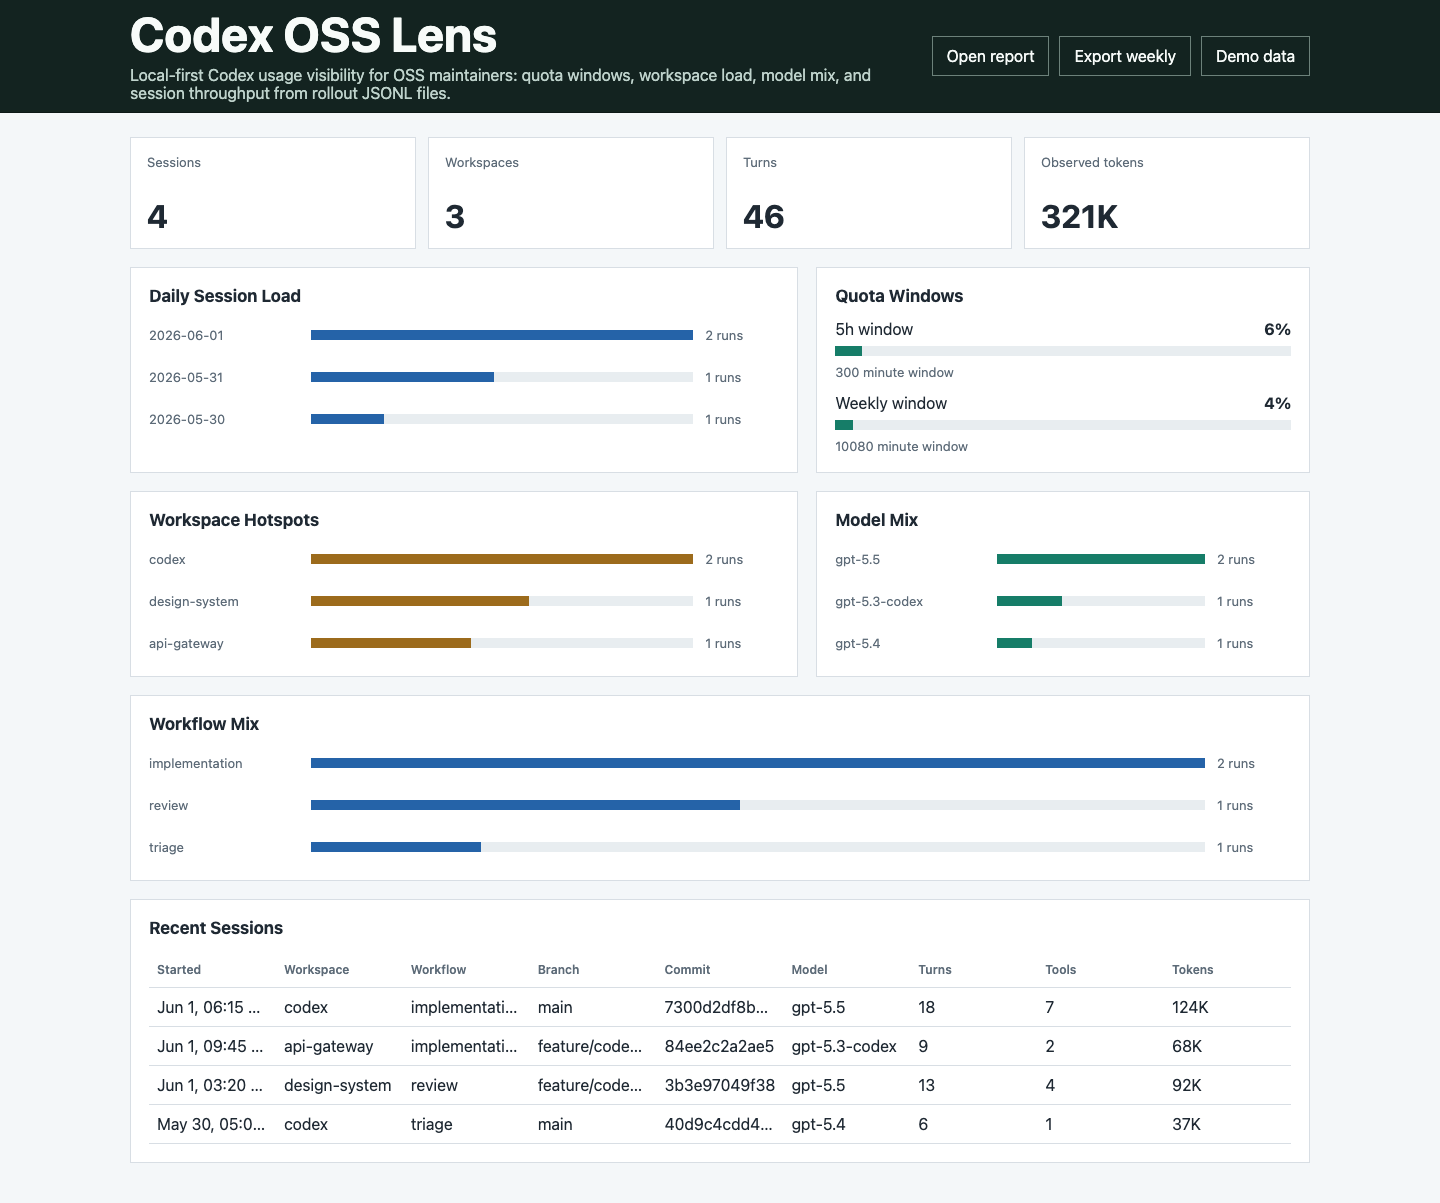
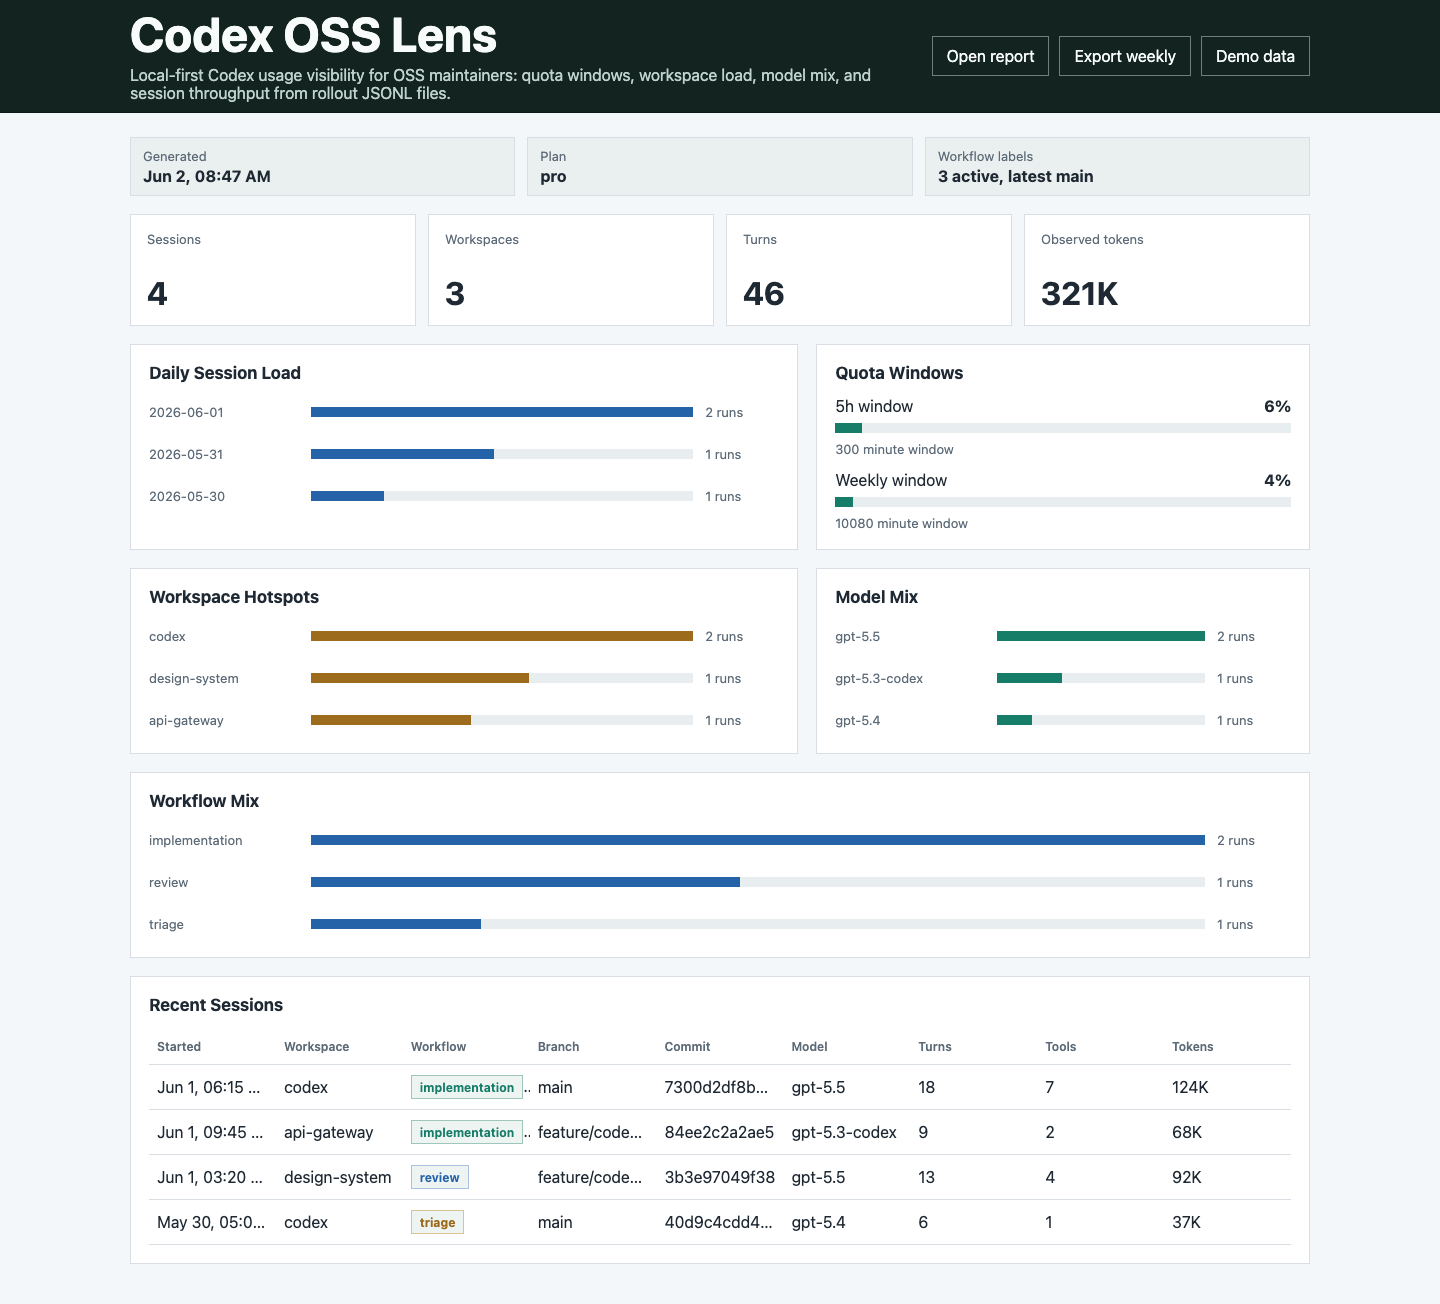
Polish project presentation before application
The project is being prepared for a later OSS support application, so this pass improves the public-facing README, contribution/security docs, schema documentation, and dashboard visual finish without changing the core data model.

Constraint: Keep the tool dependency-free and local-first

Rejected: Add marketing-heavy landing page | the dashboard should remain the first usable screen

Confidence: high

Scope-risk: narrow

Directive: Keep presentation polish grounded in real local/report behavior, not claims the tool does not yet support

Tested: npm test; Playwright desktop/mobile render and weekly export download

Not-tested: GitHub Actions because workflow scope is still unavailable

diff --git a/public/index.html b/public/index.html
@@ -101,6 +101,23 @@
         padding: 24px 0 40px;
       }
 
+      .meta-row {
+        display: grid;
+        grid-template-columns: repeat(3, minmax(0, 1fr));
+        gap: 12px;
+        margin-bottom: 18px;
+      }
+
+      .meta-item {
+        min-height: 54px;
+        border: 1px solid var(--line);
+        background: #eaf0ef;
+        padding: 10px 12px;
+        display: grid;
+        align-content: center;
+        gap: 3px;
+      }
+
       .kpis {
         display: grid;
         grid-template-columns: repeat(4, minmax(0, 1fr));
@@ -237,6 +254,37 @@
         overflow-x: auto;
       }
 
+      .badge {
+        display: inline-flex;
+        min-height: 24px;
+        align-items: center;
+        border: 1px solid #c8d2d8;
+        background: #eef4f2;
+        padding: 0 8px;
+        font-size: 12px;
+        font-weight: 700;
+      }
+
+      .badge.implementation {
+        border-color: #9fc6bb;
+        color: var(--green);
+      }
+
+      .badge.review {
+        border-color: #aac2df;
+        color: var(--blue);
+      }
+
+      .badge.triage {
+        border-color: #d9c391;
+        color: var(--amber);
+      }
+
+      .badge.security {
+        border-color: #d99aaa;
+        color: var(--rose);
+      }
+
       @media (max-width: 860px) {
         .header-inner {
           grid-template-columns: 1fr;
@@ -244,6 +292,7 @@
         }
 
         .kpis,
+        .meta-row,
         .grid {
           grid-template-columns: 1fr;
         }
@@ -276,6 +325,7 @@
         </div>
       </header>
       <main>
+        <section class="meta-row" id="metaRow"></section>
         <section class="kpis" id="kpis"></section>
         <section class="grid">
           <article class="panel">
@@ -375,6 +425,7 @@
 
       function render(report) {
         activeReport = report;
+        renderMeta(report);
         renderKpis(report);
         renderBars("dailyBars", report.byDay, (key, row) => [key, row.sessions, row.tokens?.total || 0], "blue");
         renderRateLimits(report.totals.latestRateLimits);
@@ -382,6 +433,21 @@
         renderBars("modelBars", report.byModel, (key, row) => [key, row.sessions, row.tokens?.total || 0], "");
         renderBars("workflowBars", report.byWorkflow, (key, row) => [key, row.sessions, row.tokens?.total || 0], "blue");
         renderSessions(report.sessions || []);
+      }
+
+      function renderMeta(report) {
+        const generated = new Date(report.generatedAt);
+        const plan = report.totals.planType || "unknown";
+        const workflows = Object.keys(report.byWorkflow || {}).length;
+        const latest = report.sessions?.[0]?.git?.branch || "no branch";
+        const rows = [
+          ["Generated", Number.isNaN(generated.valueOf()) ? "unknown" : formatDate.format(generated)],
+          ["Plan", plan],
+          ["Workflow labels", `${workflows} active, latest ${latest}`],
+        ];
+        document.getElementById("metaRow").innerHTML = rows
+          .map(([label, value]) => `<article class="meta-item"><div class="label">${label}</div><strong>${escapeHtml(value)}</strong></article>`)
+          .join("");
       }
 
       function exportWeeklyReport() {
@@ -513,7 +579,7 @@
                 .map((session) => `<tr>
                   <td>${formatDate.format(new Date(session.startedAt))}</td>
                   <td>${escapeHtml(session.workspace)}</td>
-                  <td>${escapeHtml(session.workflow || "unknown")}</td>
+                  <td><span class="badge ${escapeHtml(session.workflow || "unknown")}">${escapeHtml(session.workflow || "unknown")}</span></td>
                   <td>${escapeHtml(session.git?.branch || "-")}</td>
                   <td>${escapeHtml(session.git?.commit || "-")}</td>
                   <td>${escapeHtml((session.models || []).join(", ") || "unknown")}</td>

diff --git a/README.md b/README.md
@@ -1,5 +1,10 @@
 # Codex OSS Lens
 
+[![release](https://img.shields.io/github/v/release/dbunk903/codex-oss-lens?label=release)](https://github.com/dbunk903/codex-oss-lens/releases)
+[![license](https://img.shields.io/github/license/dbunk903/codex-oss-lens)](LICENSE)
+[![node](https://img.shields.io/badge/node-%3E%3D20-167d68)](package.json)
+[![privacy](https://img.shields.io/badge/privacy-local--first-2563a8)](docs/api-credit-workflow.md)
+
 Codex OSS Lens is a local-first usage and workflow dashboard for OpenAI Codex maintainers.
 It reads Codex rollout JSONL files from `~/.codex/sessions/` and turns them into a small
 browser UI for quota windows, workspace load, model mix, recent sessions, and observed token
@@ -26,6 +31,18 @@ Codex OSS Lens keeps that analysis local. It does not upload prompts, code, logs
 paths to a hosted service.
 
 ![Dashboard preview](examples/dashboard-preview.png)
+
+## Current status
+
+| Area | Status |
+| --- | --- |
+| Local JSONL scan | Available |
+| Dashboard preview | Available |
+| Weekly Markdown export | Available |
+| Path redaction | Basename, hash, or private full path |
+| Git branch/commit context | Codex payload and local `.git` fallback |
+| Workflow classification | Metadata-only heuristics |
+| API-backed summaries | Planned as opt-in aggregate-only dry run first |
 
 ## Quick start
 
@@ -99,6 +116,15 @@ session, workspace, model, turn, tool, and quota-window data.
 Full workspace paths are redacted unless `--show-paths` is passed. Use `--redaction hash`
 when a report needs stable workspace identities without exposing names.
 
+See [report schema](docs/report-schema.md) for the generated JSON shape.
+
+## Privacy posture
+
+- Raw rollout JSONL stays on the local machine.
+- Shareable exports redact workspace paths by default.
+- Workflow labels are derived from metadata such as branch names, event categories, and counts.
+- Future API-backed features should start with a dry-run payload and explicit opt-in.
+
 ## Roadmap
 
 - Redaction controls for workspace path display
@@ -108,6 +134,11 @@ when a report needs stable workspace identities without exposing names.
 - Optional OpenAI API summarization of local-only aggregate metrics
 
 See [API-credit workflow](docs/api-credit-workflow.md) for the privacy-first API plan.
+
+## Contributing
+
+See [CONTRIBUTING.md](CONTRIBUTING.md). Bug reports and integration requests are welcome,
+especially examples from maintainers using Codex across multiple repositories.
 
 ## License
 

diff --git a/docs/report-schema.md b/docs/report-schema.md
@@ -1,0 +1,79 @@
+# Report Schema
+
+`codex-oss-lens scan` emits a JSON report with aggregate metrics and recent session summaries.
+Fields may be absent when older Codex logs do not include the relevant metadata.
+
+## Top-level shape
+
+```json
+{
+  "generatedAt": "2026-06-02T00:00:00.000Z",
+  "totals": {},
+  "byDay": {},
+  "byWorkspace": {},
+  "byModel": {},
+  "byWorkflow": {},
+  "sessions": []
+}
+```
+
+## Session
+
+```json
+{
+  "id": "session-id",
+  "file": "sessions/2026/06/02/rollout-example.jsonl",
+  "cwd": "[redacted]/codex-oss-lens",
+  "workspace": "codex-oss-lens",
+  "startedAt": "2026-06-02T00:00:00.000Z",
+  "endedAt": "2026-06-02T00:20:00.000Z",
+  "models": ["gpt-5.5"],
+  "workflow": "implementation",
+  "git": {
+    "branch": "main",
+    "commit": "abc123def456",
+    "repository": "codex-oss-lens"
+  },
+  "turns": 8,
+  "toolCalls": 4,
+  "durationMinutes": 20,
+  "tokens": {
+    "input": 0,
+    "cachedInput": 0,
+    "output": 0,
+    "reasoningOutput": 0,
+    "total": 0
+  }
+}
+```
+
+## Workflow labels
+
+Workflow labels are metadata-only heuristics. They use session ids, file names, workspace names,
+branch names, repository names, event categories, turn counts, and tool-call counts. They do not
+read source files or classify prompt text.
+
+Possible labels:
+
+- `implementation`
+- `review`
+- `triage`
+- `release`
+- `security`
+- `unknown`
+
+## Redaction
+
+Default path redaction returns a workspace basename:
+
+```text
+[redacted]/codex-oss-lens
+```
+
+Stable hash redaction returns an anonymous workspace id:
+
+```text
+[workspace:7540069d86]
+```
+
+Full paths are only emitted when `--show-paths` is passed.

diff --git a/CHANGELOG.md b/CHANGELOG.md
@@ -1,0 +1,28 @@
+# Changelog
+
+## v0.3.1 - Repository Polish
+
+- Added README badges, current status table, and privacy posture summary.
+- Added contribution, security, and report schema documentation.
+- Added dashboard scan metadata row and workflow badges.
+- Refreshed desktop and mobile screenshots.
+
+## v0.3.0 - Maintainer Outcome Signals
+
+- Added Git branch and short commit context from Codex session metadata or local `.git` fallback.
+- Added metadata-only workflow labels: implementation, review, triage, release, security, unknown.
+- Added Workflow Mix to the dashboard and weekly Markdown report.
+- Corrected repeated `token_count` snapshot handling to use the latest observed value.
+
+## v0.2.0 - Shareable Maintainer Reports
+
+- Added dashboard weekly Markdown export.
+- Added configurable path redaction: basename, stable hash, or private full path.
+- Added API-credit workflow documentation with aggregate-only payload examples.
+- Added issue and pull request templates.
+
+## v0.1.0 - Local Codex Usage Lens
+
+- Added dependency-free Node CLI for Codex rollout JSONL scanning.
+- Added static dashboard for sessions, workspaces, models, quota windows, and recent activity.
+- Added demo data, screenshots, tests, and application draft material.

diff --git a/CONTRIBUTING.md b/CONTRIBUTING.md
@@ -1,0 +1,47 @@
+# Contributing
+
+Thanks for helping improve Codex OSS Lens. The project is intentionally small: dependency-free
+Node.js, a local JSONL parser, and a static browser dashboard.
+
+## Local setup
+
+```bash
+npm install
+npm test
+npm run serve
+```
+
+To use demo data:
+
+```bash
+node src/cli.js serve --demo
+```
+
+To scan local Codex sessions:
+
+```bash
+node src/cli.js scan --out report.json
+node src/cli.js weekly --out weekly-report.md
+```
+
+## Privacy rules
+
+- Do not commit raw Codex rollout logs.
+- Do not paste private prompts, terminal output, repository content, or full filesystem paths into
+  issues unless they are intentionally redacted.
+- New exports must redact paths by default.
+- New API-backed behavior must start with a dry-run payload and explicit opt-in.
+
+## Pull request checklist
+
+- Keep changes scoped and dependency-free unless a dependency is clearly justified.
+- Add tests for parser/report behavior.
+- Update README or docs when behavior changes.
+- Run `npm test` before opening a PR.
+
+## Good first areas
+
+- GitHub PR/issue import from public metadata.
+- API summary dry-run payload.
+- Better workflow heuristics with explainable labels.
+- More report examples from real maintainer workflows.

diff --git a/SECURITY.md b/SECURITY.md
@@ -1,0 +1,30 @@
+# Security Policy
+
+Codex OSS Lens reads local Codex session logs. Those logs can contain sensitive maintenance
+context, so privacy and redaction bugs are treated as security issues.
+
+## Supported versions
+
+The latest GitHub release is the supported version.
+
+## Reporting a vulnerability
+
+Open a GitHub issue if the report can be written without exposing secrets or private prompts.
+If disclosure requires sensitive details, keep the issue minimal and ask for a private contact path.
+
+## Sensitive data expectations
+
+Do not include:
+
+- raw rollout JSONL
+- prompts or assistant messages
+- source code snippets from private repositories
+- API keys, tokens, or credentials
+- full local filesystem paths
+
+## Project guarantees
+
+- No hosted service is contacted by default.
+- Dashboard rendering is local.
+- Weekly report export is local.
+- Future API-backed features must be opt-in and aggregate-only by default.
